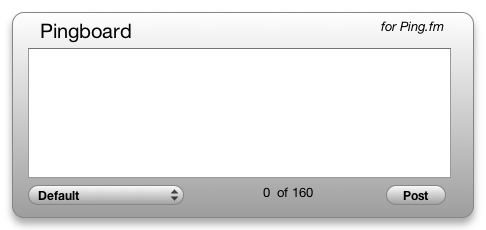
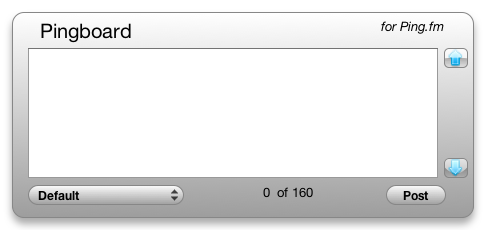
support message history

Changed region(s): [[0.8951, 0.1826, 0.9877, 0.7913]]

diff --git a/pingboard.dcproj/project.wdgt/main.html b/pingboard.dcproj/project.wdgt/main.html
@@ -20,7 +20,7 @@
 </head>
 <body onload="load();" apple-part="com.apple.Dashcode.part.StackLayout" id="error_view">
     <div id="front">
-        <img id="frontImg" src="Images/front.png" alt="" apple-locked="true" apple-part="com.apple.Dashcode.part.frontimage" apple-style="image-theme: 1; image-shape: 3; image-opacity: 1.00; image-top-color: 1.0000,1.0000,1.0000; image-bottom-color: 0.6154,0.6154,0.6154; image-radius: 12,12,12,12; image-border: 1; image-border-color: 0.5294,0.5294,0.5294; image-border-width: 1; shine-strength: 0.9; shine-alpha-level: 0.67; shine-height: 0.50; glass-arc-height: 0.06; shadow-include-shadow: 1; shadow-blur: 9.00; shadow-offset: -1.00,-6.00; shadow-color: 0.0000,0.0000,0.0000,0.3333;">
+        <img id="frontImg" src="Images/front.png" alt="" apple-locked="true" apple-part="com.apple.Dashcode.part.frontimage" apple-style="image-theme: 1; image-shape: 3; image-opacity: 1.00; image-top-color: 1,1,1,1; image-bottom-color: 0.615400016,0.615400016,0.615400016,1; image-radius: 12,12,12,12; image-border: 1; image-border-color: 0.529399991,0.529399991,0.529399991,1; image-border-width: 1; shine-on: 0; shine-strength: 0.90; shine-alpha-level: 0.67; shine-height: 0.50; glass-arc-height: 0.06; shadow-include-shadow: 1; shadow-offset: -1.00,-6.00; shadow-color: 0,0,0,0.3333;">
         <div class="apple-no-children" id="info" apple-part="com.apple.Dashcode.part.infobutton" apple-default-image-visibility="hidden"></div>
         <div apple-part="com.apple.Dashcode.part.text" class="apple-text apple-no-children" id="helloText" apple-group="text" apple-default-image-visibility="hidden" apple-style="part-height-dependent: true;"></div>
         <textarea apple-part="com.apple.Dashcode.part.textarea" id="post_text" name="post_text" onchange="postTextChange(event)" onkeypress="postTextChange(event)"></textarea>
@@ -30,6 +30,9 @@
         <div apple-part="com.apple.Dashcode.part.text" class="apple-text apple-no-children" apple-text-overflow="ellipsis" id="text1" onclick="openPingFM(event)"></div>
         <div apple-part="com.apple.Dashcode.part.text" class="apple-text apple-no-children" apple-text-overflow="ellipsis" id="character_count"></div>
         <div apple-part="com.apple.Dashcode.part.text" class="apple-text apple-no-children" apple-text-overflow="ellipsis" id="text2"></div>
+        <div apple-part="com.apple.Dashcode.part.roundedtextbutton" class="apple-no-children" apple-style="image-theme: 2; image-shape: 3; image-button-type: 0; image-opacity: 1.00; image-top-color: 1,1,1,1; image-bottom-color: 0.615400016,0.615400016,0.615400016,1; image-radius: 5,5,5,5; image-border: 1; image-border-color: 0.529399991,0.529399991,0.529399991,1; image-border-width: 1; shine-on: 1; shine-strength: 0.90; shine-alpha-level: 0.67; shine-height: 0.50; glass-arc-height: 0.06; image-include-custom: 1; image-custom-image-path: smallup.png; image-custom-center: 1; image-custom-resize: 2; shadow-include-shadow: 0;" id="prev"></div>
+        <div apple-part="com.apple.Dashcode.part.roundedtextbutton" class="apple-no-children" apple-style="image-theme: 2; image-shape: 3; image-button-type: 0; image-opacity: 1.00; image-top-color: 1,1,1,1; image-bottom-color: 0.615400016,0.615400016,0.615400016,1; image-radius: 5,5,5,5; image-border: 1; image-border-color: 0.529399991,0.529399991,0.529399991,1; image-border-width: 1; shine-on: 1; shine-strength: 0.40; shine-alpha-level: 0.67; shine-height: 0.40; glass-arc-height: -0.70; image-include-custom: 1; image-custom-image-path: smalldown.png; image-custom-center: 1; image-custom-resize: 2; shadow-include-shadow: 0;" id="next"></div>
+        <div apple-part="com.apple.Dashcode.part.text" class="apple-text apple-no-children" apple-default-image-visibility="hidden" apple-text-overflow="ellipsis" id="historyNum"></div>
     </div>
     <div id="back">
         <img id="backImg" src="Images/back.png" alt="" apple-locked="true" apple-part="com.apple.Dashcode.part.backimage" apple-style=" image-radius: 12,12,12,12; image-border: 1; image-border-color: 0.1500,0.1500,0.1500; image-border-width: 3; shadow-include-shadow: 1; shadow-blur: 9.00; shadow-offset: -1.00,-6.00; shadow-color: 0.0000,0.0000,0.0000,0.3333;">

diff --git a/pingboard.dcproj/project.wdgt/main.js b/pingboard.dcproj/project.wdgt/main.js
@@ -15,6 +15,8 @@ function load()
     setupPingFM();
 
     setupUI();
+    
+    pingdb.initialize();
 }
 
 //
@@ -254,6 +256,8 @@ var pingfm = {
      args.post_method = this.post_method;
      args.body = jQuery('#post_text').val();
 
+     pingdb.addPing(args.body, args.post_method);
+
      this.doRequest('user.post', args, 
             function(data) {
                 console.log("Success on user.post");
@@ -332,7 +336,7 @@ function setupPingFM()
 function doPost(event)
 {
     pingfm.postMessage();
-    pingview.setPostBody('');
+    pingview.resetPost();
 }
 
 
@@ -343,12 +347,42 @@ function setPostType(event)
 }
 
 var pingview = {
+  historyNum: -1,
+
+  showPrevHistory: function() {
+    this.showHistory(Math.min(this.historyNum+1, pingdb.countPings()));
+  },
+  
+  showNextHistory: function() {
+    this.showHistory(Math.max(-1, this.historyNum-1));
+  },
+  
+  showHistory: function(num) {
+    var ping;
+    if (num == -1) {
+        ping = {message:'', destination: 'default'};
+        showNum = '';
+    }
+    else {
+        ping = pingdb.getPing(num);
+        showNum = String(num+1);
+    }
+    
+    this.historyNum = num;
+
+    if (ping) {
+        this.setPostBody(ping.message);
+        this.setPostMethod(ping.destination);
+        jQuery('#historyNum').text(showNum);
+    }
+  },
+
   getPostMethod: function() {
     return jQuery('select', jQuery('#post_type')).val();
   },
   
   setPostMethod: function(val) {
-    jQuery('select', jQuery('#post_type')).val(val);
+    jQuery('select', jQuery('#post_type')).val(val).change();
   },
   
   getPostBody: function() {
@@ -356,8 +390,8 @@ var pingview = {
   },
   
   setPostBody: function(val) {
-    jQuery('#post_text').val(val);
-    postTextChange();
+    jQuery('#post_text').val(val).change();
+    // postTextChange();
   },
   
   getDebug: function() {
@@ -366,6 +400,7 @@ var pingview = {
   
   setDebug: function(val) {
     jQuery('#debug_button').get(0).checked = val;
+    jQuery('#debug_button').change();
   },
 
   getAppKey: function() {
@@ -373,13 +408,66 @@ var pingview = {
   },
   
   setAppKey: function(val) {
-    jQuery('#api_key').val(val);
+    jQuery('#api_key').val(val).change();
+  },
+  
+  resetPost: function(val) {
+      this.setPostBody('');
+      this.showHistory(-1);
   },
   
   version: '0.1',
 };
 
+/**
+ *
+ *
+ * See http://webkit.org/misc/DatabaseExample.html
+ */ 
+var pingdb = {
+    db: null,
+    
+    initialized: false,
+    
+    available: true,
+    
+    initialize: function() {
+        if (this.initialized)
+            return true;
 
+        this.db = [];
+
+        this.initialized = true;
+        return true;
+    },
+    
+    clear: function() {
+        this.db = [];
+    },
+    
+    addPing: function(message, destination) {
+        if (! destination) { destination = 'default' };
+        this.db.unshift( {message: message, destination: destination, when: new Date()} );
+    },
+    
+    listPings: function(count) {
+        if (! count) count = 10;
+        return this.db;
+    },
+    
+    getPing: function(num) {
+        if (this.db.length <= num)
+            return null;
+        else
+            return this.db[num];
+    },
+    
+    countPings: function() {
+        return this.db.length;
+    },
+    
+    version: '0.1'
+}
 
 function doDebugClick(event)
 {
@@ -389,4 +477,14 @@ function doDebugClick(event)
 function setupUI()
 {
     
+}
+
+function showPrevHistory()
+{
+    pingview.showPrevHistory();
+}
+
+function showNextHistory()
+{
+    pingview.showNextHistory();
 }

diff --git a/pingboard.dcproj/project.wdgt/Parts/setup.js b/pingboard.dcproj/project.wdgt/Parts/setup.js
@@ -12,9 +12,12 @@ var dashcodePartSpecs = {
     "character_count": { "creationFunction": "CreateText", "text": "0" },
     "done": { "creationFunction": "CreateGlassButton", "onclick": "configDone", "text": "Done" },
     "helloText": { "creationFunction": "CreateText", "text": "Hello, World!" },
+    "historyNum": { "creationFunction": "CreateText" },
     "info": { "backgroundStyle": "black", "creationFunction": "CreateInfoButton", "foregroundStyle": "white", "frontID": "front", "onclick": "doShowBack" },
+    "next": { "creationFunction": "CreateButton", "leftImageWidth": 5, "onclick": "showNextHistory", "rightImageWidth": 5 },
     "post_submit": { "creationFunction": "CreateButton", "leftImageWidth": 10, "onclick": "doPost", "rightImageWidth": 10, "text": "Post" },
     "post_type": { "creationFunction": "CreatePopupButton", "leftImageWidth": 10, "name": "post_type_button", "onchange": "setPostType", "options": [["Default", "default"], ["Status", "status"], ["Micro-blog", "microblog"], ["Blog", "blog"]], "rightImageWidth": 16 },
+    "prev": { "creationFunction": "CreateButton", "leftImageWidth": 5, "onclick": "showPrevHistory", "rightImageWidth": 5 },
     "text": { "creationFunction": "CreateText", "text": "Error!" },
     "text1": { "creationFunction": "CreateText", "text": "for Ping.fm" },
     "text2": { "creationFunction": "CreateText", "text": "of 160" },

diff --git a/pingboard.dcproj/project.wdgt/main.css b/pingboard.dcproj/project.wdgt/main.css
@@ -207,9 +207,9 @@ body {
     bottom: auto;
     margin-top: 0px;
     left: 28px;
-    width: 421px;
     height: 128px;
     top: 48px;
+    width: 408px;
 }
 
 #button_getKey1 {
@@ -331,4 +331,49 @@ body {
     height: 247px;
     left: -4px;
     top: -11px;
+}
+
+#prev {
+    font-family: HelveticaNeue-Bold;
+    font-size: 12px;
+    text-align: center;
+    position: absolute;
+    right: auto;
+    margin-top: 0px;
+    width: 24px;
+    top: 48px;
+    left: 444px;
+    bottom: 162px;
+    height: auto;
+}
+
+#next {
+    font-family: HelveticaNeue-Bold;
+    font-size: 12px;
+    text-align: center;
+    position: absolute;
+    right: auto;
+    margin-top: 0px;
+    width: 24px;
+    left: 444px;
+    top: 158px;
+    bottom: 52px;
+    height: auto;
+}
+
+#historyNum {
+    color: black;
+    font-family: HelveticaNeue;
+    font-size: 10pt;
+    text-overflow: ellipsis;
+    overflow: hidden;
+    position: absolute;
+    margin-top: 0px;
+    left: 444px;
+    width: 25px;
+    min-height: 15px;
+    top: 105px;
+    bottom: 110px;
+    height: auto;
+    text-align: center;
 }
